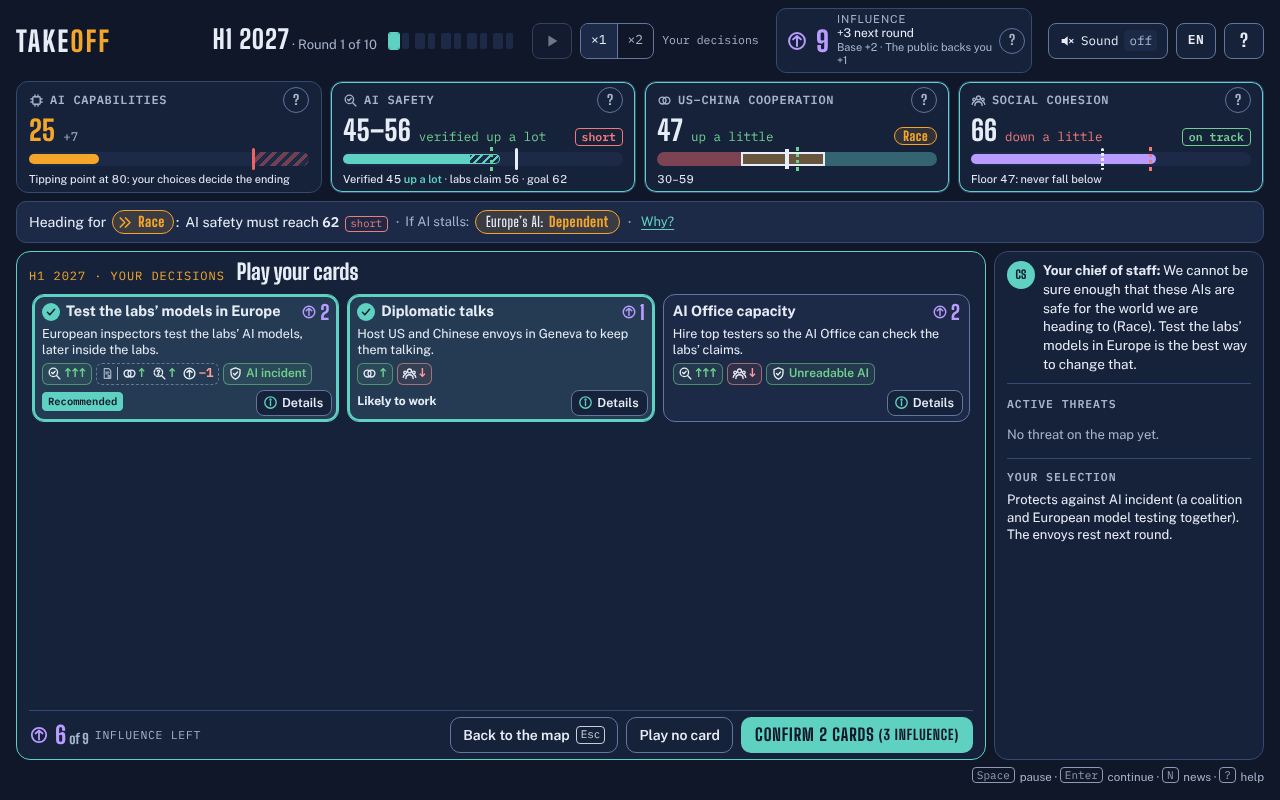
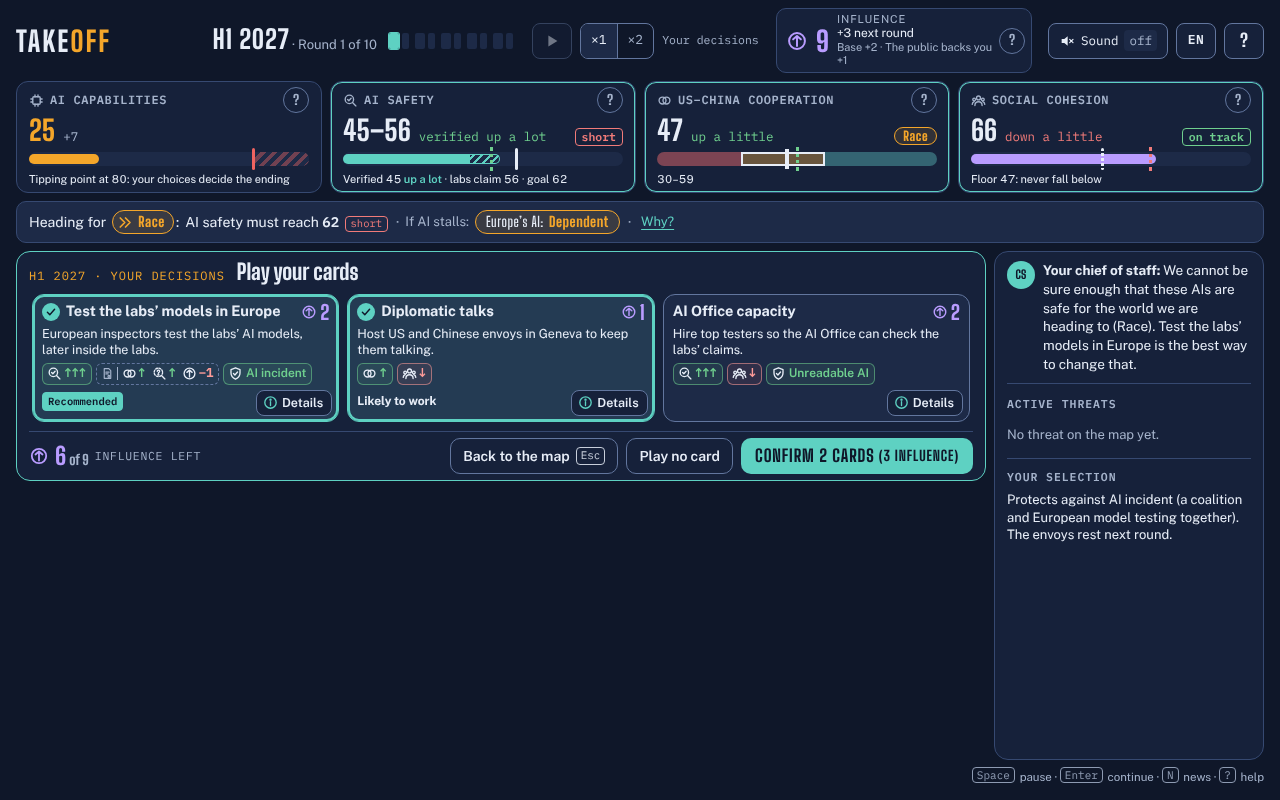
Decisions: a small hand gets a panel as tall as its cards (bar right under them; big hands still fill and scroll inside); AI safety's caption always writes its goal at rest (Polish, Spanish and the pseudo-locale dropped it), with a test of the heading line and the caption in every language
Claude-Session: https://claude.ai/code/session_01LSwpJS5xn5SGb1m53Db9uo

diff --git a/src/ui/styles.css b/src/ui/styles.css
@@ -579,7 +579,9 @@ body.jolt .mapwrap { animation: jolt .5s ease; }
    tablet, a list on a phone; the chief of staff and the threats in the right column; one bar at the bottom. */
 .game.deciding .theatre > .mapwrap, .game.deciding .theatre > .feed { display: none; }
 .decide { grid-column: 1 / -1; display: grid; grid-template-columns: minmax(0, 1fr) 270px; gap: 8px; min-height: 0; min-width: 0; }
-.dk-main { display: flex; flex-direction: column; min-height: 0; min-width: 0; background: var(--deck); border: 1px solid var(--align); border-radius: 14px; padding: 8px 12px 6px; }
+/* the cards' panel is as tall as its content (a small hand: the bar sits right under the cards), up to the map's
+   height (a big hand: the cards scroll inside, the page does not grow); the right column keeps the full height */
+.dk-main { display: flex; flex-direction: column; align-self: start; max-height: 100%; min-height: 0; min-width: 0; background: var(--deck); border: 1px solid var(--align); border-radius: 14px; padding: 8px 12px 6px; }
 .dk-head { display: flex; gap: 2px 12px; align-items: baseline; flex-wrap: wrap; }
 .dk-head h2 { margin: 0; font-family: var(--f-display); font-weight: 800; font-size: 22px; line-height: 1.05; }
 .dk-head h2:focus { outline: none; }
@@ -616,7 +618,7 @@ body.jolt .mapwrap { animation: jolt .5s ease; }
 }
 /* a tablet: the cards take the whole width (two columns); the advice and the threats sit side by side under them */
 @media (min-width: 768px) and (max-width: 999px) and (min-height: 541px) {
-  .decide { grid-template-columns: minmax(0, 1fr); grid-template-rows: minmax(0, 1fr) auto; }
+  .decide { grid-template-columns: minmax(0, 1fr); grid-template-rows: minmax(0, auto) auto; align-content: start; }
   .dk-side { display: grid; grid-template-columns: minmax(0, 1fr) minmax(0, 1fr); align-content: start; gap: 0 16px; max-height: 30vh; }
   .dk-side > * { grid-column: 2; }
   .dk-side > .dk-adv { grid-column: 1; grid-row: 1 / span 3; margin: 0; padding: 0; border: 0; }
@@ -644,7 +646,7 @@ body.jolt .mapwrap { animation: jolt .5s ease; }
 .ava { flex: none; display: inline-grid; place-items: center; width: 32px; height: 32px; border-radius: 50%; background: var(--align); color: var(--night); font-family: var(--f-display); font-weight: 800; font-size: 14px; }
 /* the hand: one grid; every row as tall as its tallest card, and every card the height of the tallest (1fr rows in
    an auto-height grid), so all cards are the same size. A big hand scrolls inside; the page does not grow. */
-.hand { margin: 6px 0 0; padding: 3px; overflow: auto; flex: 1; min-height: 0; }
+.hand { margin: 6px 0 0; padding: 3px; overflow: auto; flex: 0 1 auto; min-height: 0; }
 .cards { list-style: none; margin: 0; padding: 0; display: grid; grid-template-columns: repeat(auto-fill, minmax(min(100%, 280px), 1fr)); grid-auto-rows: 1fr; gap: 8px; }
 .cards.later { margin-top: 8px; }
 .dk-more { display: flex; align-items: center; gap: 8px; width: 100%; margin: 8px 0 0; padding: 6px 10px; min-height: 36px; border: 1px dashed var(--edge); border-radius: 10px; background: transparent; color: var(--mute); font-size: 13.5px; font-weight: 600; text-align: left; }
@@ -905,7 +907,7 @@ body.ended { overflow: auto; }
    height, with the threats beside the cards and the cards scrolling inside, so the page does not grow */
 @media (max-height: 540px) and (min-width: 768px) {
   .decide { grid-template-columns: minmax(0, 1fr) 240px; height: max(52vh, 300px); }
-  .dk-main .hand { overflow: auto; flex: 1; }
+  .dk-main .hand { overflow: auto; flex: 0 1 auto; }
   .dk-bar { position: static; }
 }
 @media (max-width: 560px) {

diff --git a/tests/i18n.test.ts b/tests/i18n.test.ts
@@ -11,6 +11,9 @@ import { engineStrings } from '../scripts/i18n-coverage';
 import { englishEntries, known, t, th, tn, tr, useCatalog } from '../src/i18n';
 import { numberKey } from '../src/i18n/match';
 import { pseudo } from '../src/i18n/pseudo';
+import { createInitialState, heading } from '../src/engine/index';
+import { headingLineHtml, safetyCaption } from '../src/ui/outlook';
+import { nextRound } from './helpers';
 
 const en = buildEnglish();
 
@@ -140,4 +143,35 @@ describe('the runtime', () => {
     expect(pseudo('Hello {name}')).toContain('{name}');
     expect(pseudo('Hello world, how are you').length).toBeGreaterThan('Hello world, how are you'.length * 1.25);
   });
+});
+
+describe('the heading line and AI safety’s caption in every language', () => {
+  const s = nextRound(createInitialState(9));
+  const h = heading(s);
+  const all = ['en', ...LOCALES, 'xx'] as const;
+  for (const l of all) {
+    it(`${l}: the line names the world and its goal; the gauge’s caption keeps the goal at rest`, () => {
+      useCatalog(l, l === 'en' || l === 'xx' ? {} : readJson(join(I18N_DIR, `${l}.json`)));
+      const d = h.decides;
+      const label = tr(d.label);
+      const line = headingLineHtml(h);
+      // the visible line: the goal's gauge and its bar, then its status
+      expect(line.html).toContain(`<b class="num">${d.bar}</b>`);
+      expect(line.html).toContain(label);
+      expect(line.html).toContain(tr(h.name));
+      // the same in words, for screen readers, with the safety net
+      expect(line.words).toContain(label);
+      expect(line.words).toContain(String(d.bar));
+      expect(line.words).toContain(String(h.net.bar));
+      // AI safety's caption under its gauge: at rest the goal is always written, wide and narrow
+      const tgt = th('ui.gauge.goalShort', 'goal {bar}', { bar: `${d.bar}` });
+      const long = th('ui.gauge.capSafety', 'Verified {low} · labs claim {claim}', { low: 45, claim: 56 });
+      const short = th('ui.gauge.capSafetyShort', '{low} verified', { low: 45 });
+      const cap = safetyCaption(long, short, tgt, false);
+      expect(cap.long).toContain(tgt);
+      expect(cap.short).toContain(tgt);
+      // a gauge that is neither the goal nor the net has no target to write
+      expect(safetyCaption(long, short, '', false)).toEqual({ long, short });
+    });
+  }
 });

diff --git a/src/ui/app.ts b/src/ui/app.ts
@@ -25,7 +25,7 @@ import { showRequest } from './screens/request';
 import { showPostcard } from './screens/postcard';
 import { FRIENDS } from '../data/friends';
 import { TUNING } from '../data/tuning';
-import { badgeHtml, headingLineHtml, statusOf, statusWord } from './outlook';
+import { badgeHtml, headingLineHtml, safetyCaption, statusOf, statusWord } from './outlook';
 import { GICON } from './fx';
 import { lang, lcFirst, onLangChange, t, tc, th, tn, tr } from '../i18n';
 import { bindLangMenu, chooseLang, langMenuHtml } from './lang';
@@ -1288,15 +1288,15 @@ export class App {
         if (k === 'confidence') {
           const c = this.safety();
           const a = this.safetyAfter() ?? c;
-          const plain = (x: string) => x.replace(/<[^>]+>/g, '');
           // a selection's effect in words before deciding ("Verified 41 up some"): numbers come after Confirm
           const would = (x: number, y: number) => (x === y ? `${x}` : `${x} <b class="pv">${esc(tr(moveWord(y - x)))}</b>`);
           if (c.audited) setCap(both(`${esc(t('ui.gauge.auditedTrue', 'Audited: the true value'))}${tgt ? ` · ${tgt}` : ''}`, `${esc(t('ui.gauge.auditedShort', 'audited'))}${tgt ? ` · ${tgt}` : ''}`));
           else {
             const long = th('ui.gauge.capSafety', 'Verified {low} · labs claim {claim}', { low: would(c.low, a.low), claim: would(c.claim, a.claim) });
             const short = th('ui.gauge.capSafetyShort', '{low} verified', { low: would(c.low, a.low) });
-            // the target joins the line when it fits on one line (it is always drawn on the bar)
-            setCap(both(plain(long + tgt).length <= 48 && tgt ? `${long} · ${tgt}` : long, plain(short + tgt).length <= 28 && tgt ? `${short} · ${tgt}` : short));
+            // the target joins the line when it fits; at rest it is always written (it is always drawn on the bar)
+            const cap = safetyCaption(long, short, tgt, a.low !== c.low || a.claim !== c.claim);
+            setCap(both(cap.long, cap.short));
           }
         } else if (k === 'cooperation') {
           // its zone is the status chip ("Race"), in the zone's colour and named in words; the caption keeps the range.

diff --git a/src/ui/outlook.ts b/src/ui/outlook.ts
@@ -64,6 +64,21 @@ export function headingLineHtml(h: HeadingView, before?: HeadingView): { html: s
   return { html, words };
 }
 
+/**
+ * AI safety's caption under its gauge, wide and narrow: what is verified (and, wide, what the labs claim), then its
+ * target ("goal 62") when the gauge decides the world or is its safety net. The target joins the line when it fits on
+ * one line; when it does not (a longer language: Polish, Spanish), the caption at rest keeps the target and drops the
+ * claim (already the top of the value, "45–56"), so the goal is always written. Only while a selection moves AI
+ * safety may the preview's words take its place (the target stays drawn on the bar).
+ */
+export function safetyCaption(long: string, short: string, tgt: string, moving: boolean): { long: string; short: string } {
+  const len = (x: string) => x.replace(/<[^>]+>/g, '').length;
+  const keep = !!tgt && !moving;
+  const wide = tgt && len(long + tgt) <= 48 ? `${long} · ${tgt}` : keep ? `${short} · ${tgt}` : long;
+  const narrow = tgt && (len(short + tgt) <= 28 || keep) ? `${short} · ${tgt}` : short;
+  return { long: wide, short: narrow };
+}
+
 /** Would the selection change what the line says: the world, or the status of its goal or safety net? */
 function lineMoves(h: HeadingView, before: HeadingView): boolean {
   if (h.world !== before.world || h.decides.key !== before.decides.key || h.net.key !== before.net.key) return true;

diff --git a/docs/V4_SPEC.md b/docs/V4_SPEC.md
@@ -71,7 +71,7 @@ A character arrives during the six months with a short request (≤ 40 words) an
 
 "Make my decisions" replaces the map and the feed with the decisions; the header, the gauges and the heading line stay.
 
-- **The hand** (compact cards, 27 Oct; owner's feedback: cards were cut on small screens, of uneven sizes, and the four family columns confused): **one grid of cards all the same size**, about three columns on a laptop, two on a tablet, a list on a phone (6 to 9 cards visible at 1280×800, more on a bigger window; a bigger hand scrolls inside the panel, never the page). Each card shows its **name**, its **cost**, a **one-line purpose** (≤ 12 words, `short` in `src/data/cards.ts`) and **all its effects as icons**: the gauge's icon with 1 to 3 arrows (↑ a little, ↑↑ some, ↑↑↑ a lot; ↓ the same down; AI safety by its verified part), the hidden real safety as a dashed magnifier with "?" and one arrow (never a size), Influence as a number ("−1", "×2" for two rounds), Europe's AI as "→ Open", a protection as a shield and the threat's short name, a risk as a warning sign; effects that come only with the inspection accord (or from the coalition's level 2) share one dashed group behind the accord's mark ("L2"). Cards that can fail add their chance in a word. Tags at the foot: Recommended, New (arrived this round), Opportunity with rounds left, and for a card that cannot be played now "Too expensive" or "Not now" (with a lock). Never colour alone: arrows, signs, icons and words carry the meaning; screen readers hear one sentence per effect ("US–China cooperation: up a little") and the mouse gets it as a tooltip.
+- **The hand** (compact cards, 27 Oct; owner's feedback: cards were cut on small screens, of uneven sizes, and the four family columns confused): **one grid of cards all the same size**, about three columns on a laptop, two on a tablet, a list on a phone (6 to 9 cards visible at 1280×800, more on a bigger window; a bigger hand scrolls inside the panel, never the page; a small hand, as in round 1, gets a panel only as tall as its cards, the bar right under them, while the right column keeps its height). Each card shows its **name**, its **cost**, a **one-line purpose** (≤ 12 words, `short` in `src/data/cards.ts`) and **all its effects as icons**: the gauge's icon with 1 to 3 arrows (↑ a little, ↑↑ some, ↑↑↑ a lot; ↓ the same down; AI safety by its verified part), the hidden real safety as a dashed magnifier with "?" and one arrow (never a size), Influence as a number ("−1", "×2" for two rounds), Europe's AI as "→ Open", a protection as a shield and the threat's short name, a risk as a warning sign; effects that come only with the inspection accord (or from the coalition's level 2) share one dashed group behind the accord's mark ("L2"). Cards that can fail add their chance in a word. Tags at the foot: Recommended, New (arrived this round), Opportunity with rounds left, and for a card that cannot be played now "Too expensive" or "Not now" (with a lock). Never colour alone: arrows, signs, icons and words carry the meaning; screen readers hear one sentence per effect ("US–China cooperation: up a little") and the mouse gets it as a tooltip.
 - **Order**: the chief of staff's recommended card first, then the playable ones, then the ones that cost too much; cards waiting for something else (a pause, an accord, a round of rest) sit behind one line, "Not available yet (n)", that opens them. The order is set when the decisions open, so cards never move while the player selects.
 - **Details**, a real button with its word on every card, opens a dialog over the cards (the gauges stay in view above on a wide window; a bottom sheet on a phone): the full proposal, the effects in words beside their icons, the card's other conditions and side effects ("Only in a pause", "Inspections sharper"), its levels, what to ask for (the ASML lever's choice is made here), the chance and its reasons, the real-world example and cost with sources, the provenance tag and its basis. Escape or a click outside closes it and focus returns to the card's Details. Selecting is done on the card itself, not in Details.
 - **The chief of staff** gives one recommendation, in words, without numbers, in the right column (on a phone, a line over the cards, "Your chief of staff: recommends …", that opens).
